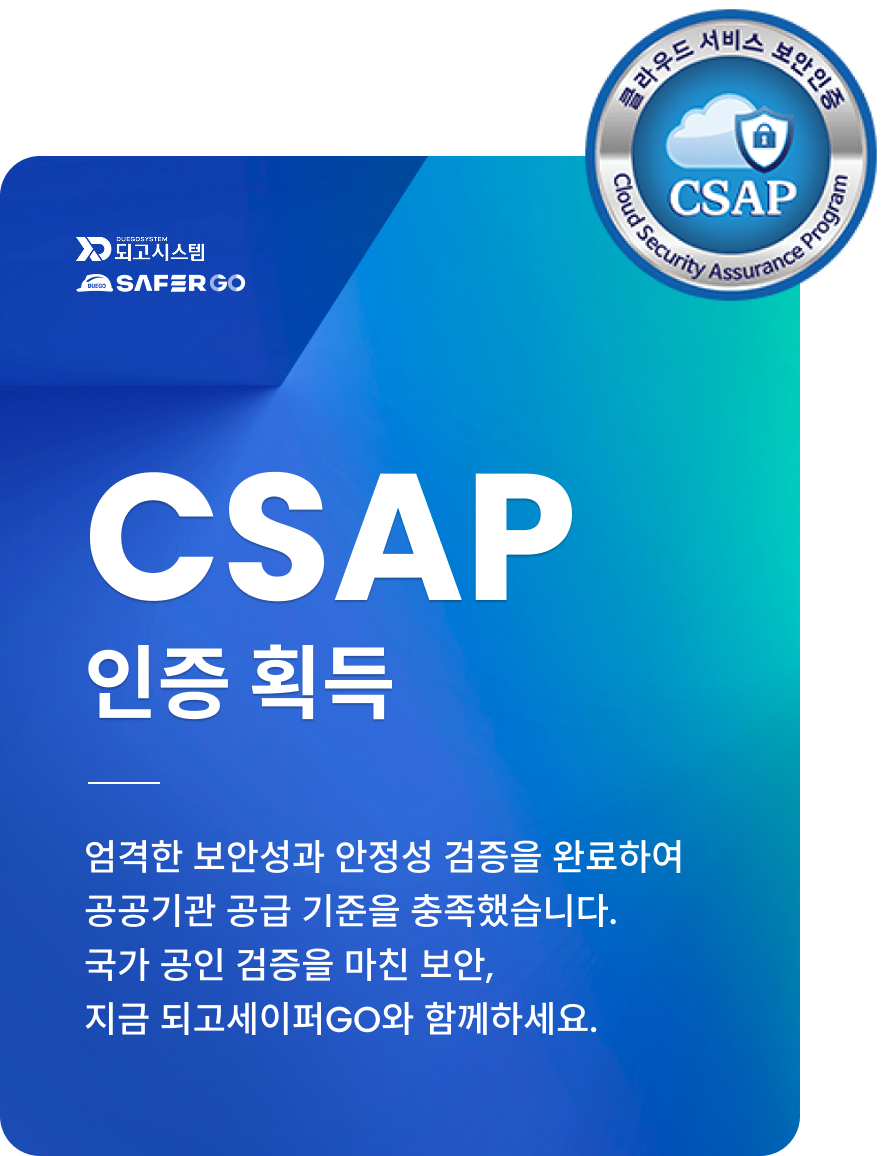
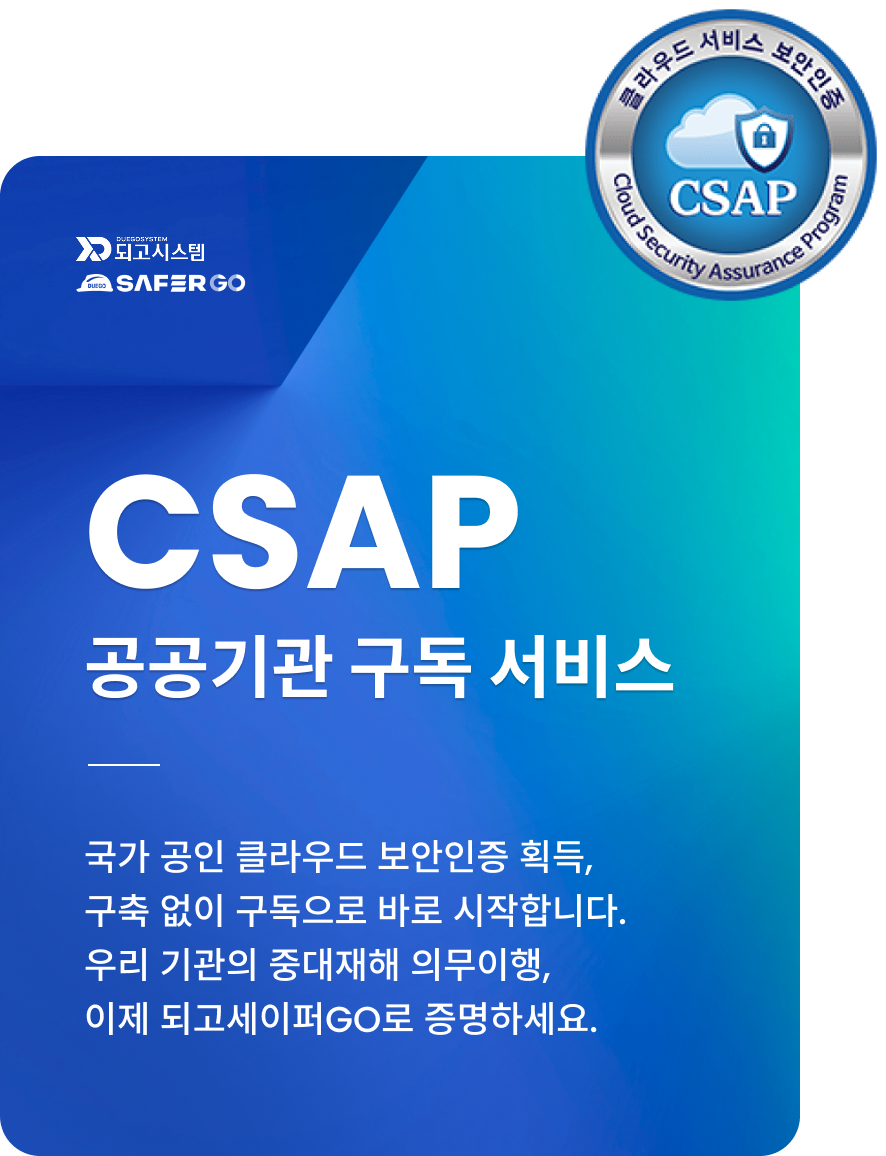
팝업 제목 문구 수정 및 배너 이미지 교체
- 제목: 'CSAP 보안인증 획득' → 'CSAP 인증 획득'
- banner_02.png 교체 (캔버스 886x1156 동일, 비율 계산 영향 없음)
- _headers의 /images/* immutable 캐시 때문에 같은 파일명 교체 시
  기존 방문자에게 반영되지 않으므로 src에 ?v=2 추가

diff --git a/index.html b/index.html
@@ -517,13 +517,13 @@
     <div class="main-popup" id="main-popup" role="dialog" aria-modal="true" aria-labelledby="main-popup-title" hidden>
         <div class="main-popup-dim" data-popup-close></div>
         <div class="main-popup-inner">
-            <h2 class="main-popup-title" id="main-popup-title">되고세이퍼GO, <em>CSAP 보안인증 획득</em></h2>
+            <h2 class="main-popup-title" id="main-popup-title">되고세이퍼GO, <em>CSAP 인증 획득</em></h2>
             <div class="main-popup-banners">
                 <a href="/platform/safer-g.html" class="main-popup-banner">
                     <img src="/images/banner_01.png" alt="되고세이퍼GO - CSAP SaaS 표준등급, GS인증 1등급 획득. 검증된 공공 클라우드 보안. 되고세이퍼GO 바로가기">
                 </a>
                 <div class="main-popup-banner main-popup-banner--overflow">
-                    <img src="/images/banner_02.png" alt="되고세이퍼GO - CSAP 인증 획득. 엄격한 보안성과 안정성 검증을 완료하여 공공기관 공급 기준을 충족했습니다">
+                    <img src="/images/banner_02.png?v=2" alt="되고세이퍼GO - CSAP 인증 획득. 엄격한 보안성과 안정성 검증을 완료하여 공공기관 공급 기준을 충족했습니다">
                 </div>
             </div>
             <div class="main-popup-controls">
